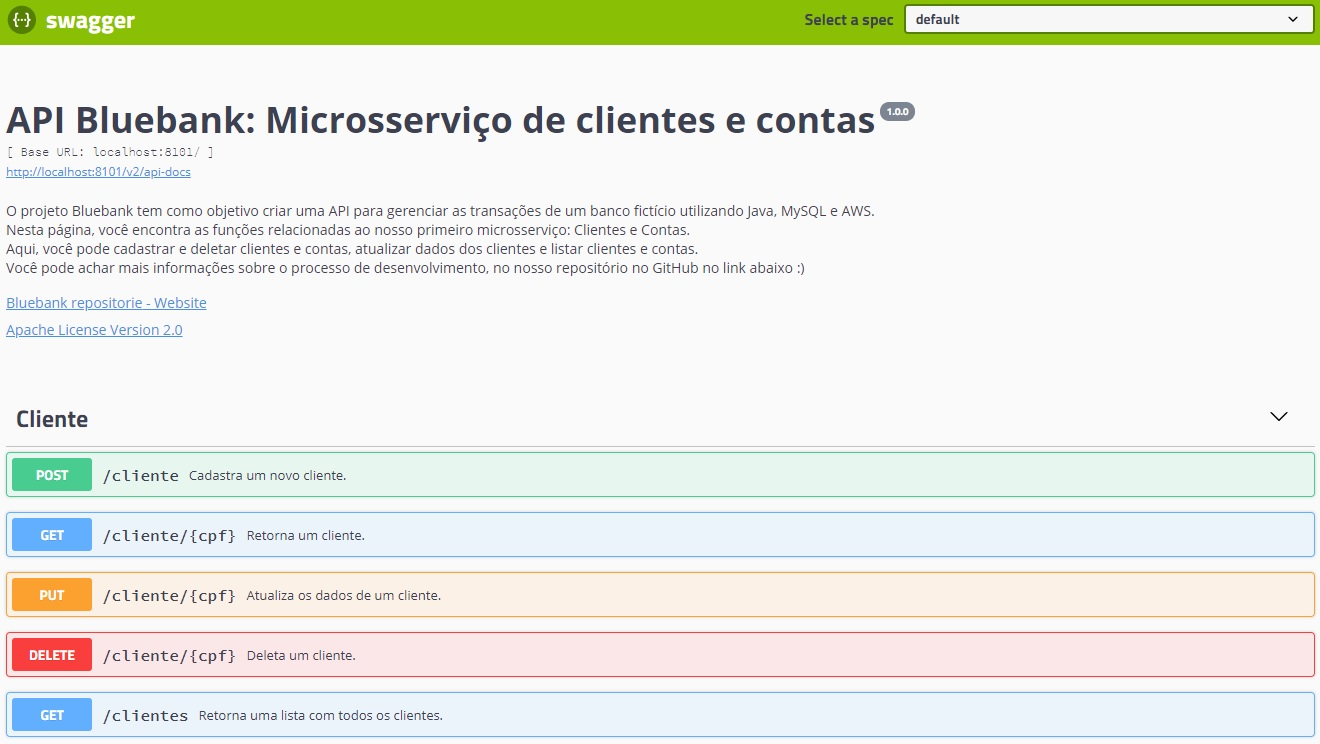
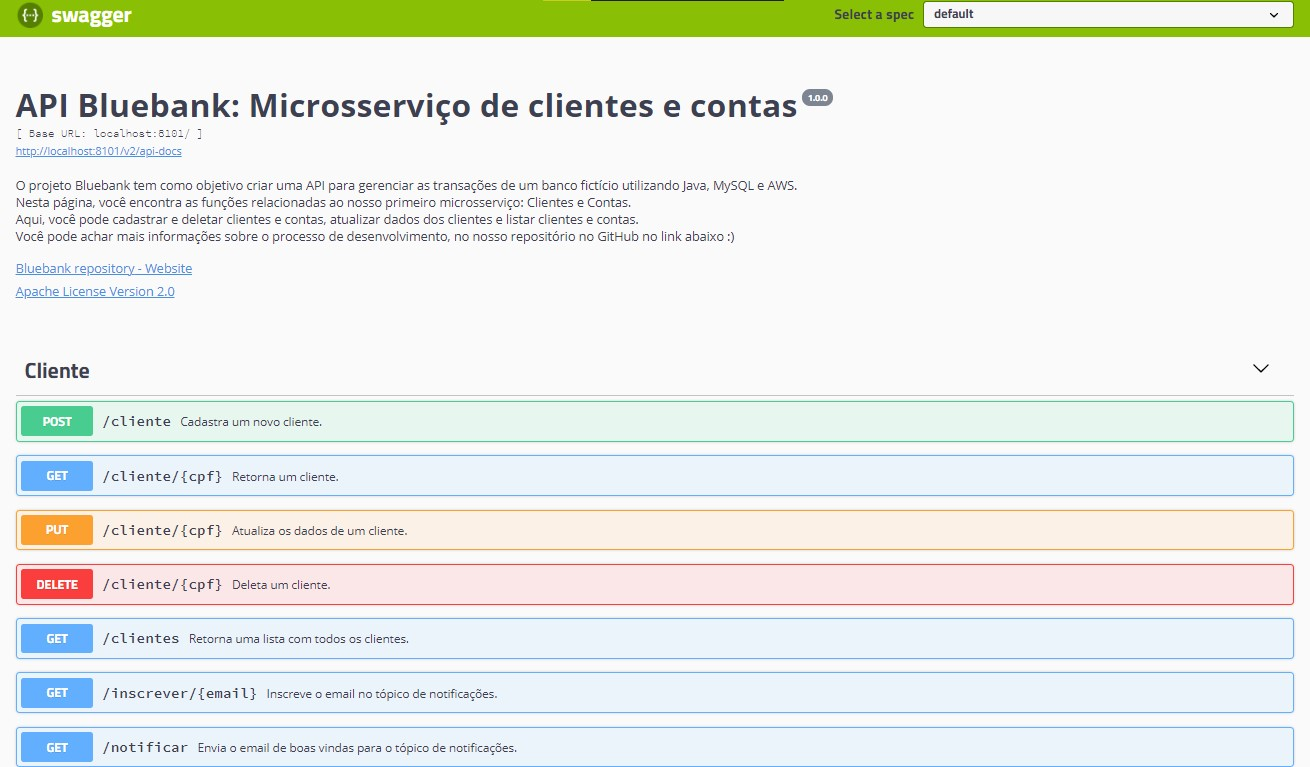
Atualizações gerais do readme finalizadas

Changed region(s): [[0.0, 0.0927, 1.0, 1.0], [0.0, 0.0, 1.0, 0.0618]]

diff --git a/README.md b/README.md
@@ -13,15 +13,20 @@ Esse projeto consiste em uma API para gerenciar as transações de um banco fict
         <li><a href="#RQFuncionais">Requisitos Funcionais</a></li>
         <li><a href="#endpoints">Endpoints</a></li>
         <ul>
-            <li><a href="#postman">Postman</a></li>
             <li><a href="#swagger">Swagger</a></li>
+			<li><a href="#postman">Postman</a></li>
         </ul>
     </ul>
-    <li><a href="#desenvolvimento">Processo de Desenvolvimento</a></li>
+	<li><a href="#desenvolvimento">Desenvolvimento</a></li>
     <ul>
-        <li><a href="#jira">Quadro Kanban</a></li>
-        <li><a href="#testes">Execução dos Testes</a></li>
-    </ul>
+		<li><a href="#jira">Quadro Kanban</a></li>
+		<li><a href="#testes">Execução dos Testes</a></li>
+		<li><a href="#aws">AWS</a></li>
+		<ul>
+			<li><a href="#deploy">Estratégia de Deploy</a></li>
+			<li><a href="#servicos">Serviços Utilizados</a></li>
+		</ul>
+	</ul>
     <li><a href="#tecnologias">Tecnologias e Ferramentas</a></li>
     <li><a href="#licenca">Licença</a></li>
     <li><a href="#agradecimentos">Agradecimentos</a></li>
@@ -31,12 +36,12 @@ Esse projeto consiste em uma API para gerenciar as transações de um banco fict
 <h1 align="center" id="requisitos">Requisitos e Funcionalidades</h1>
 <h3 id="RQEntrega">Requisitos de Entrega</h3>
 
-- [ ] O código deve ser entregue em um repositório no Github.
-- [ ] A API deve ser disponibilizada em ambiente AWS com EC2 e em Beanstalk.
-- [ ] A aplicação deve ter um pipeline em Jenkins ou no Aws Build.
-- [ ] A aplicação precisa ser configurada no API Gateway da AWS.
-- [ ] A aplicação precisa ter no mínimo um endpoint de SNS para cadastro de emails e verificação automática.
-- [ ] A aplicação precisa ter no mínimo um Lambda.
+- [X] O código deve ser entregue em um repositório no Github.
+- [X] A API deve ser disponibilizada em ambiente AWS com EC2 e em Beanstalk.
+- [X] A aplicação deve ter um pipeline em Jenkins ou no Aws Build.
+- [X] A aplicação precisa ser configurada no API Gateway da AWS.
+- [X] A aplicação precisa ter no mínimo um endpoint de SNS para cadastro de emails e verificação automática.
+- [X] A aplicação precisa ter no mínimo um Lambda.
 - [X] Liste os endpoints no README.md
 - [ ] O Banco deve ser entregue em script SQL junto ao repositório.
 
@@ -69,6 +74,14 @@ Os <b>endpoints</b> são literalmente pontas de um canal de comunicação. Neste
 ***[GET]*** Pesquisa um cliente pelo CPF:
 ```
 /cliente/{cpf}
+```
+***[GET]*** Inscreve o email no tópico de notificações. É chamado no momento de criação do cliente:
+```
+/inscrever/{email}
+```
+***[GET]*** Envia o email de boas vindas para o tópico de notificações:
+```
+/notificar
 ```
 ***[POST]*** Cadastra um novo cliente:
 ```
@@ -139,7 +152,11 @@ Os <b>endpoints</b> são literalmente pontas de um canal de comunicação. Neste
 ```
 <h3 id="swagger">Swagger</h3>
 O <a href="https://swagger.io/">Swagger(OpenAPI)</a> é uma especificação aberta para definição/descrição de APIs REST. Você pode achar mais informações sobre o Swagger <a href="https://www.ibm.com/docs/pt-br/integration-bus/10.0?topic=ssmkhh-10-0-0-com-ibm-etools-mft-doc-bi12018--htm">aqui</a> e pode testar uma demonstração ao vivo do Swagger aqui: <a href="https://petstore.swagger.io/">Swagger Petstore</a>.<br>
-Utilizamos o <a href="https://github.com/swagger-api/swagger-ui">Swagger UI</a> para documentar, visualizar e requisitar/acessar a nossa API em um navegador Web.
+Utilizamos o <a href="https://github.com/swagger-api/swagger-ui">Swagger UI</a> para documentar, visualizar e requisitar/acessar a nossa API em um navegador Web. <br>
+Para acessar localmente, utilize a URL:
+
+`http://localhost:8101/swagger-ui.html` 	 e 		`http://localhost:8102/swagger-ui.html`
+
 <h4 align="center">Microsserviços de clientes e contas</h4>
 <img src="Arquivos/img/swagger/Swagger-cliente.jpg"></img>
 <img src="Arquivos/img/swagger/Swagger-conta.jpg"></img>
@@ -222,15 +239,26 @@ Note que:
 E por último, todas as tarefas e histórias estão vinculadas ao épico **_"Eu enquanto cliente gostaria de abrir uma conta no banco para que eu possa efetuar transações financeiras"_**
 <img src="Arquivos/img/jira/BBP_Roteiro.png" alt="epico"></img>
 
-<h2 id="testes">Execução dos Testes</h2>
-Criação dos testes, utilizamos JUnit
-Essa sessão encontra-se em andamento.
+<h3 id="testes">Execução dos Testes</h3>
+Fizemos alguns testes unitários relacionados ao CRUD de clientes e ao processo de creditar e debitar saldo de contas, contido no primeiro microsserviço. Você pode ver o código dos testes, clicando <a href="bluebank/BlueBank/src/test/java/com/squad/dezktop/service/">aqui</a>.
 
-<h3 id="resultados">Análise dos Resultados</h3>
-Essa sessão encontra-se em andamento.
+<h2 id="aws">AWS</h2>
+<h3 id="servicos">Serviços Utilizados</h3>
+O Jenkins foi instalado numa <a href="https://aws.amazon.com/pt/ec2/">instância EC2</a> e cria toda a aplicação através do arquivo <a href="Jenkinsfile">Jenksfile</a> existente no diretório raiz do projeto no github.
+Configuramos todos os endpoints no <a href="https://aws.amazon.com/pt/api-gateway/">API Gateway</a>, importando as documentações das APIs do Swagger e mapeando os endpoints de cada microsserviço.
+Criamos uma função <a href="https://aws.amazon.com/pt/lambda/">Lambda</a> em NodeJs para fazer um request no endpoint /agendamento/efetivar que é acionada por um gatilho no <a href="https://aws.amazon.com/pt/eventbridge/">Event Bridge</a> definido para executar de segunda à sexta às 8 horas da manhã.
+Ao executar a função Lambda todas as transações agendadas na aplicação são efetivadas e podemos ver o resultado através do log do <a href="https://aws.amazon.com/pt/cloudwatch/">Cloud Watch</a>.
+Como requisito do projeto, também implementamos dois endpoints para se comunicarem com o serviço  <a href="https://aws.amazon.com/pt/sns/">SNS da AWS</a>.
+O endpoint /inscrever/{email} faz a inscrição do email passado como parâmetro no tópico de notificações.
+O endpoint /notificar envia um email de boas-vindas para todos os emails inscritos no tópico de notificações.
+
+
+<h3 id="deploy">Estratégia de Deploy</h3>
+Criamos uma pipeline no <a href="https://www.jenkins.io/download/">Jenkins</a> que é acionada a partir de qualquer commit na branch main do repositório do projeto no github.
+A pipelene faz o checkout do projeto através do git, faz o build das aplicações java (eureka-server, cliente-conta e transacoes) e executa o docker-compose, lendo o arquivo <a href="docker-compose.yml">docker-compose.yml</a>, para fazer o build e executar um container para cada aplicação java (através de seus respectivos Dockerfile), além de criar um container de banco de dados em <a href="https://www.mysql.com/">MySQL</a> que será utilizado pela aplicação.
 
 <p align="right"><a href="#topo">Você pode voltar ao topo clicando aqui ↑</a></p>
-<h3 class="subTitulo" id="tecnologias">Ferramentas e tecnologias utilizadas</h3>
+<h3 id="tecnologias">Ferramentas e tecnologias utilizadas</h3>
 <div id="tecnologias" style="display: inline_block" align="center"><br>
     <a href="https://www.oracle.com/br/java/technologies/javase/jdk11-archive-downloads.html">
         <img align="center" alt="Java" title="Java SE 11" height="80px" width="90px" src="https://cdn.jsdelivr.net/gh/devicons/devicon/icons/java/java-plain.svg"/>
@@ -241,8 +269,24 @@ Essa sessão encontra-se em andamento.
     <a href="https://www.mysql.com/">
         <img align="center" alt="MySql" title="MySql" height="80px" width="90" src="https://cdn.jsdelivr.net/gh/devicons/devicon/icons/mysql/mysql-original.svg"/>
     </a>
-    <a href="https://aws.amazon.com/pt/?nc2=h_lg">
-        <img align="center" alt="AWS" title="Amazom Web Services (AWS)" height="80px" width="90px" src="https://cdn.jsdelivr.net/gh/devicons/devicon/icons/amazonwebservices/amazonwebservices-original.svg"/>
+    <a href="https://aws.amazon.com/pt/sns/">
+        <img align="center" alt="SNS" title="AWS - SNS" height="80px" width="80px" src="Arquivos/img/aws-sns.png"/>
+    </a>
+   <a href="https://aws.amazon.com/pt/lambda/">
+        <img align="center" alt="AWS - Lambda" title="AWS - Lambda" height="80px" width="80px" src="Arquivos/img/aws-lambda.png"/>
+    </a>
+    <a href="https://aws.amazon.com/pt/api-gateway/">
+        <img align="center" alt="AWS - API Gateway" title="AWS - API Gateway" height="80px" width="80px" src="Arquivos/img/aws-api_gateway.png"/>
+    </a>
+   <a href="https://aws.amazon.com/pt/ec2/">
+        <img align="center" alt="AWS - EC2" title="AWS - EC2" height="80px" width="80px" src="Arquivos/img/aws-ec2.png"/>
+    </a>
+	<a href="https://aws.amazon.com/pt/eventbridge/">
+        <img align="center" alt="AWS - Event Bridge" title="AWS - Event Bridge" height="80px" width="80px" src="Arquivos/img/aws-event_bridge.png"/>
+    </a>
+    </a>
+	<a href="https://aws.amazon.com/pt/eventbridge/">
+        <img align="center" alt="AWS - Cloud Watch" title="AWS - Cloud Watch" height="80px" width="90px" src="Arquivos/img/aws-cloud_Watch.png"/>
     </a>
     <a href="https://www.docker.com/get-started">
     <img align="center" alt="Docker" title="Docker" height="90px" width="100px" src="https://cdn.jsdelivr.net/gh/devicons/devicon/icons/docker/docker-original.svg"/> 
